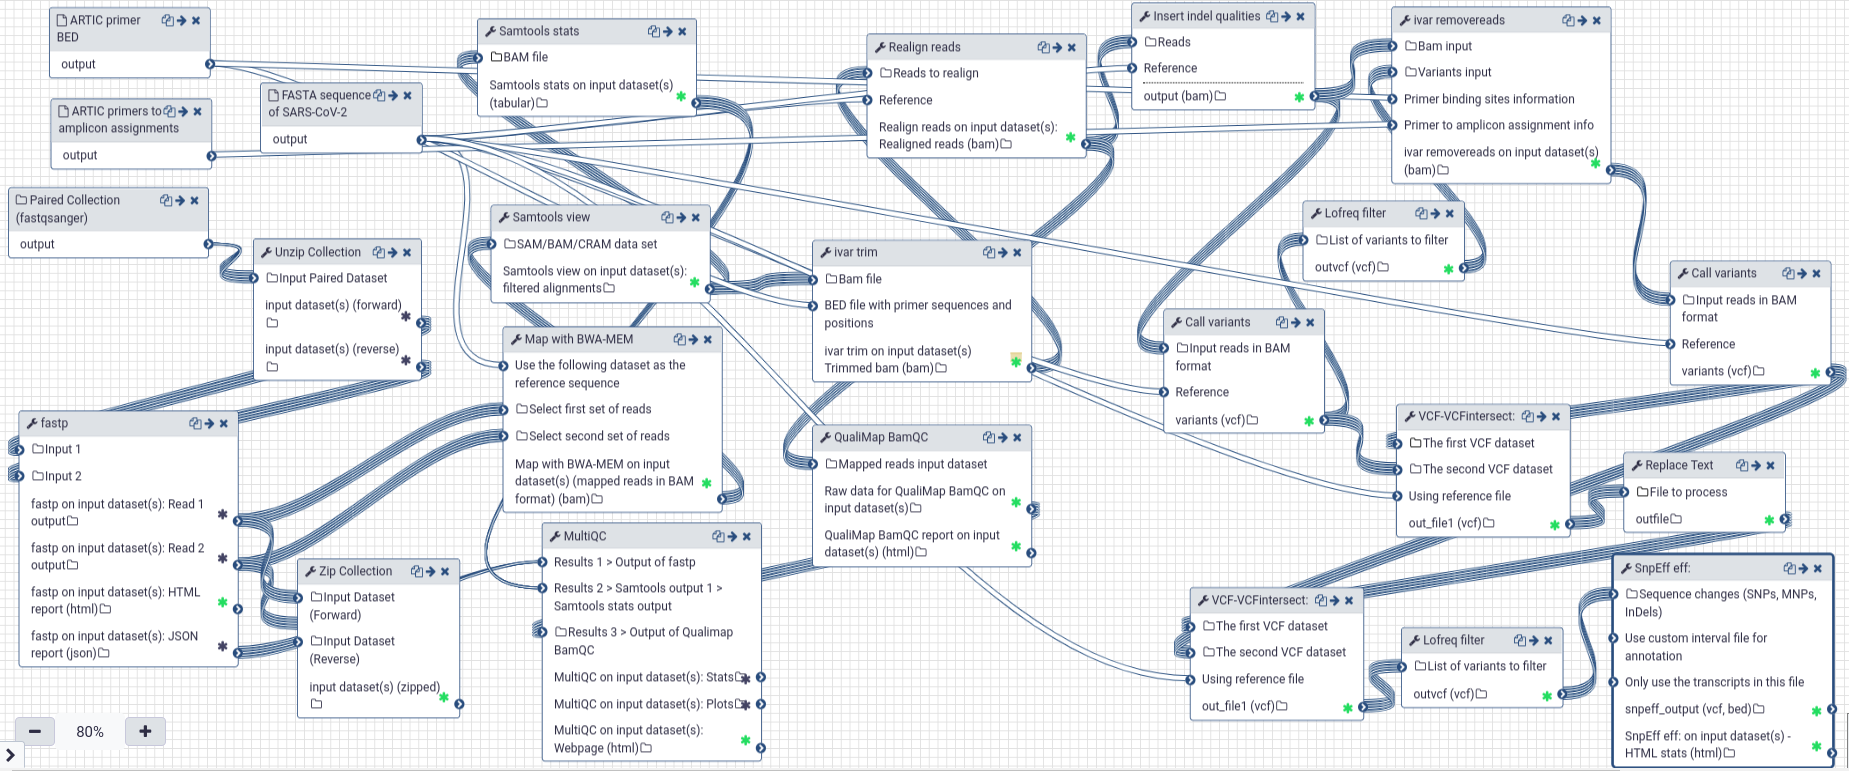
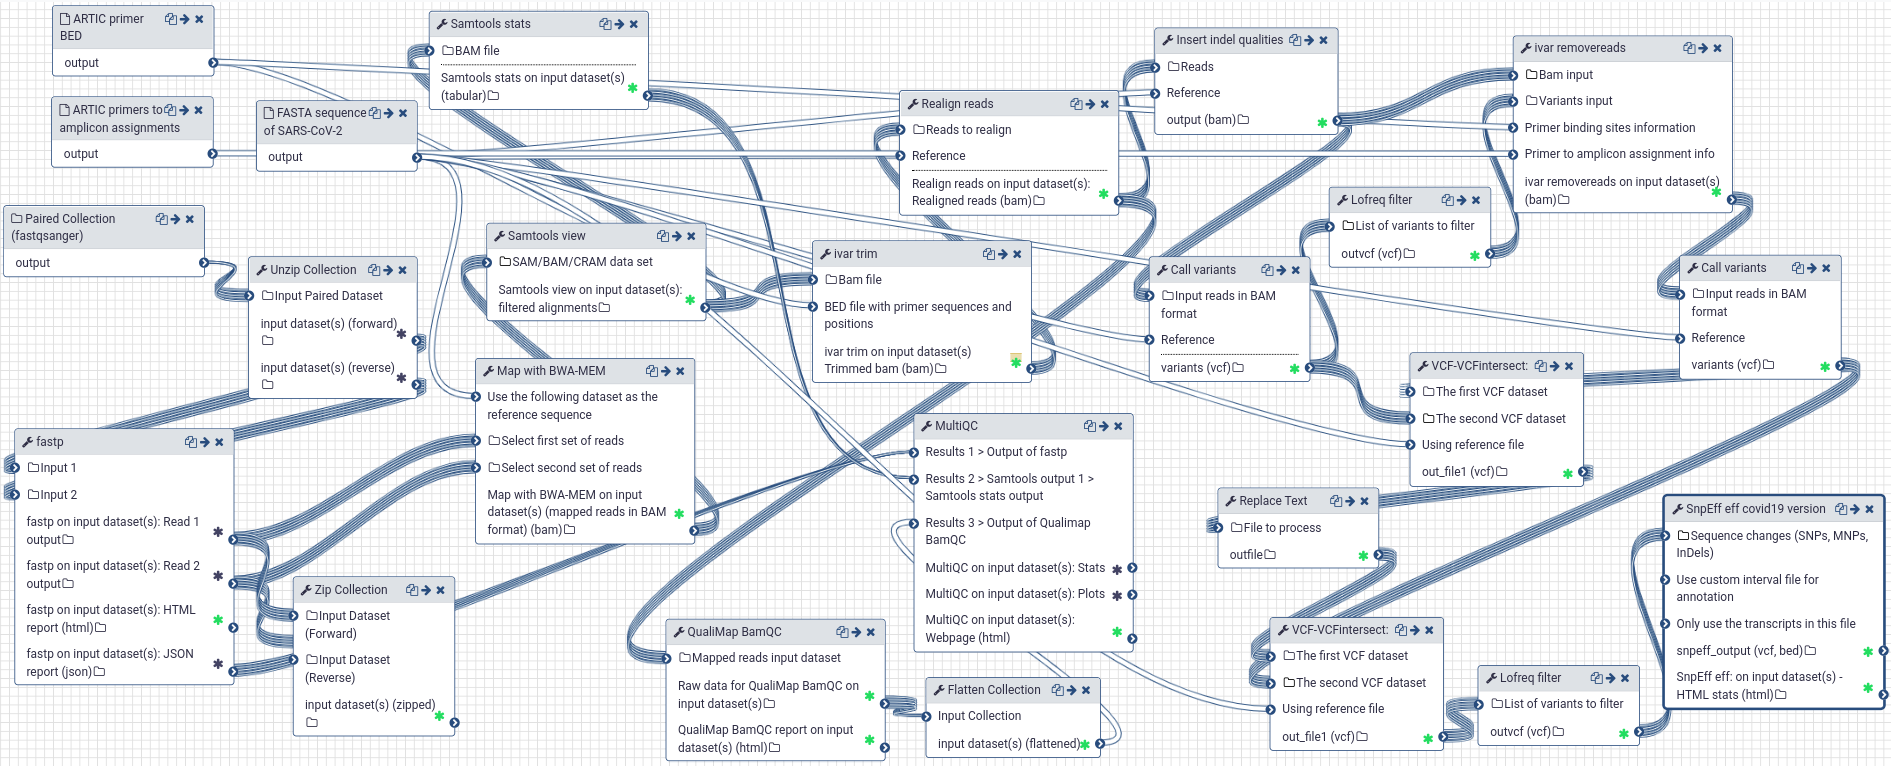
Update ARTIC section
- Add EU example history
- Update AU workflow
- Update WF image to latest WF version
- Mention reference genome as required input
- Fix formatting and typos

diff --git a/artic/README.md b/artic/README.md
@@ -7,8 +7,8 @@ title: Artic
 | usegalaxy.eu | usegalaxy.org.au |
 |:--------:|:------------:|
 | <FlatShield label="data" message="view" href="https://usegalaxy.eu/library/list#folders/F2a32545de855d335" alt="Raw data" /> | |
-| <FlatShield label="workflow" message="run" href="https://usegalaxy.eu/u/wolfgang-maier/w/covid-19-variation-analysis-on-artic-pe-data" alt="Galaxy workflow" /> | <FlatShield label="workflow" message="run" href="https://usegalaxy.org.au/u/pvanheus/w/imported-covid-19-amplicon-artic" alt="Galaxy workflow" />  |
-
+| <FlatShield label="workflow" message="run" href="https://usegalaxy.eu/u/wolfgang-maier/w/covid-19-variation-analysis-on-artic-pe-data" alt="Galaxy workflow" /> | <FlatShield label="workflow" message="run" href="https://usegalaxy.org.au/u/simongladman/w/covid-19-variation-analysis-on-artic-pe-data" alt="Galaxy workflow" />  |
+| <FlatShield label="history" message="view" href="https://usegalaxy.eu/u/wolfgang-maier/h/artic-example-analysis" alt="Galaxy history" /> | |
 
 ## Background
 
@@ -22,13 +22,13 @@ Along with the laboratory protocols for sequencing (both for Illumina and Nanopo
 
 ## Analyzing ARTIC data with Galaxy
 
-### What's the point
+### What's the point?
 
 Our goal is to enable and provide state-of-the-art workflows for the analysis of SARS-CoV-2 ARTIC data using the Galaxy platform.
 
 While it is possible to treat ARTIC data like regular whole-genome sequencing (WGS) data and analyze it with WGS workflows like the ones we developed for the [analysis of within-samples variation](../genomics/4-Variation/), failure to take the specific nature of the data, and specifically the presence of amplicon primer sequences, into account would lead to suboptimal results.
 
-## A Galaxy workflow for the analysis of Illumina paired-end sequenced ARTIC amplicon data
+### A Galaxy workflow for the analysis of Illumina paired-end sequenced ARTIC amplicon data
 
 Compared to our workflow for WGS data, the workflow optimized for ARTIC data analysis includes the following changes:
 
@@ -69,7 +69,9 @@ The workflow requires:
 
 1. A collection of the forward and reverse reads in `fastq` format of all samples to be analyzed
 
-2. A BED file describing the binding sites of all primers used to generate the tiled amplicons
+2. The SARS-CoV-2 [reference FASTA sequence](https://www.ncbi.nlm.nih.gov/nuccore/NC_045512.2?report=fasta)
+
+3. A BED file describing the binding sites of all primers used to generate the tiled amplicons
 
    The ARTIC project provides BED files for use with this workflow as part of their [SARS-CoV-2 resources repo](https://github.com/artic-network/artic-ncov2019/tree/master/primer_schemes/nCoV-2019).
    
@@ -81,9 +83,9 @@ The workflow requires:
    Please take care to use the correct primer BED file corresponding to the version of the primers used during sequencing! If in doubt, consider this:
    
    - Later BED file versions should also work reasonably well with older sequencing data, while the other way round is more problematic
-   - v2 of the primer scheme has been in used for only a very short time before it got superseded by v3.
+   - v2 of the primer scheme has been in use for only a very short time before it got superseded by v3.
 
-3. An amplicon info file
+4. An amplicon info file
 
    This tabular file should consist of one line per amplicon, which should list *all* primers involved in the generation of this amplicon. For reproducibility we provide files with:
    
